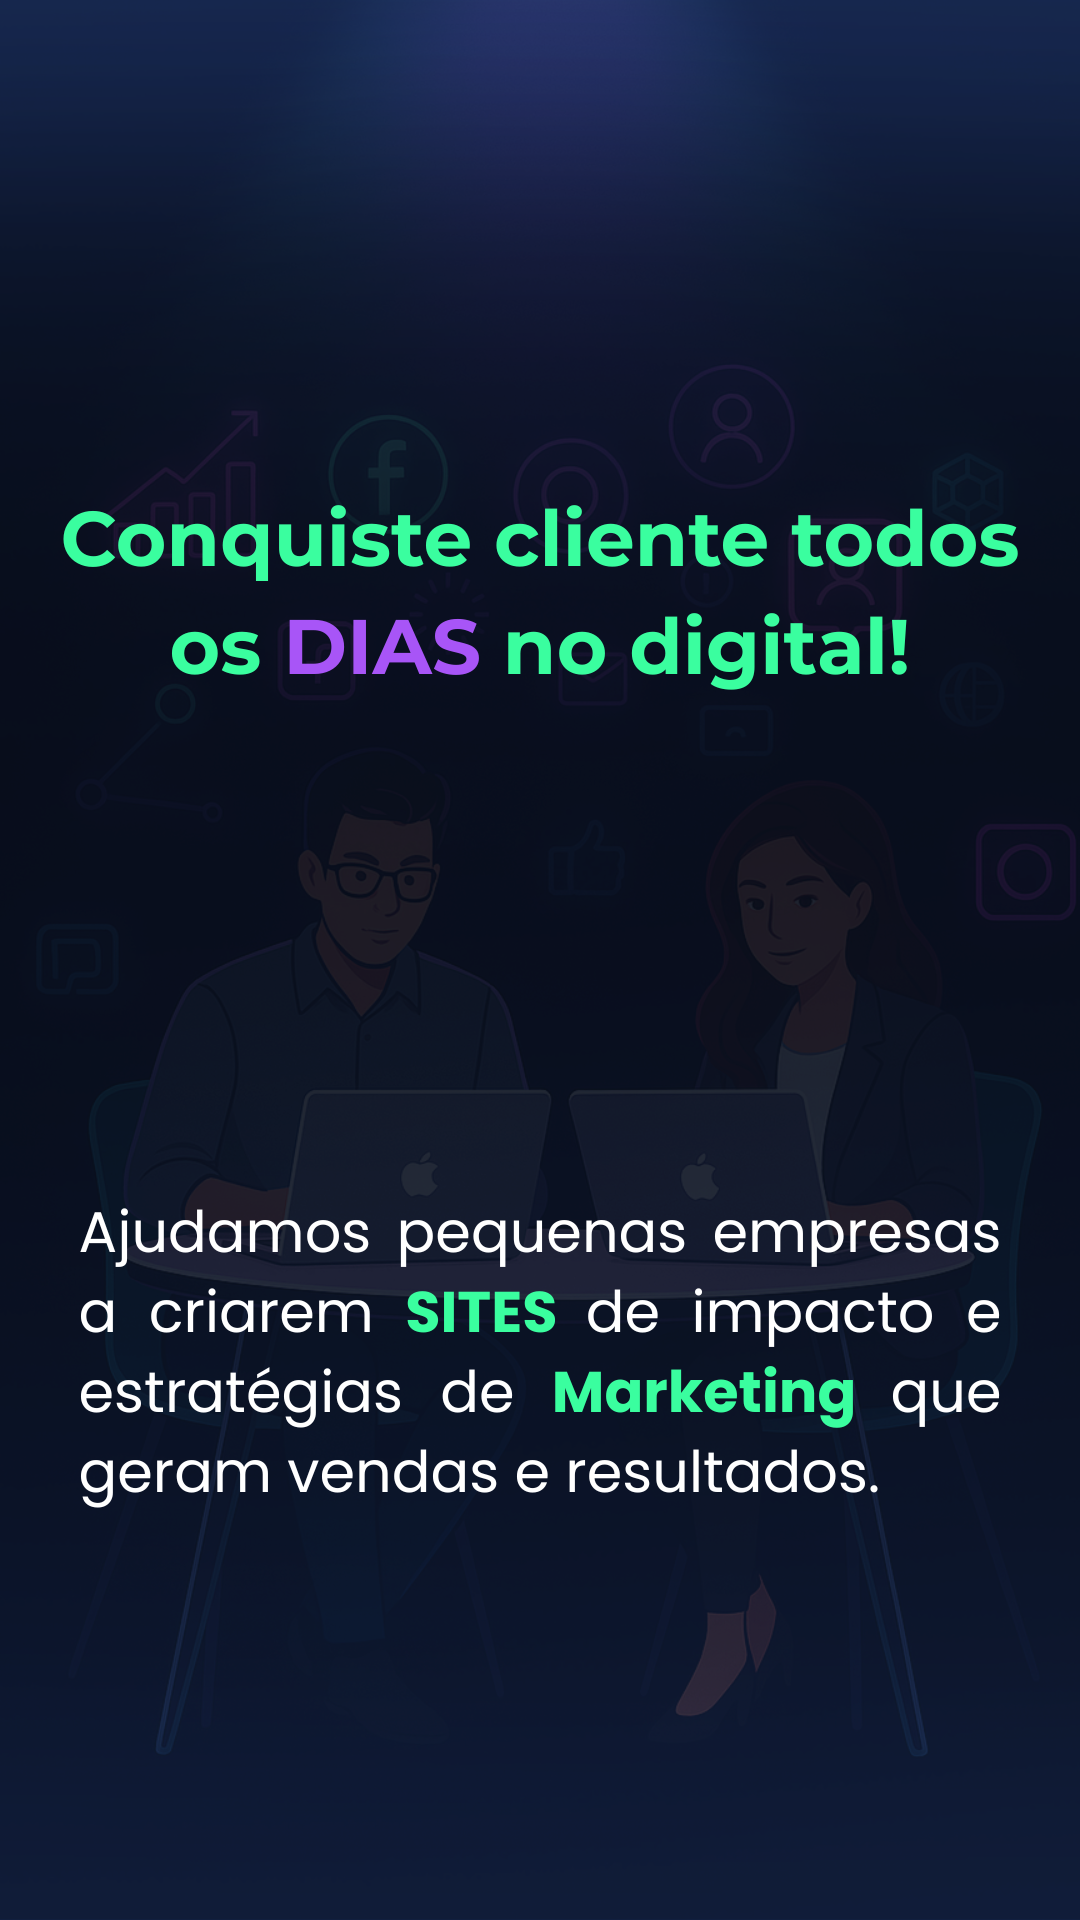
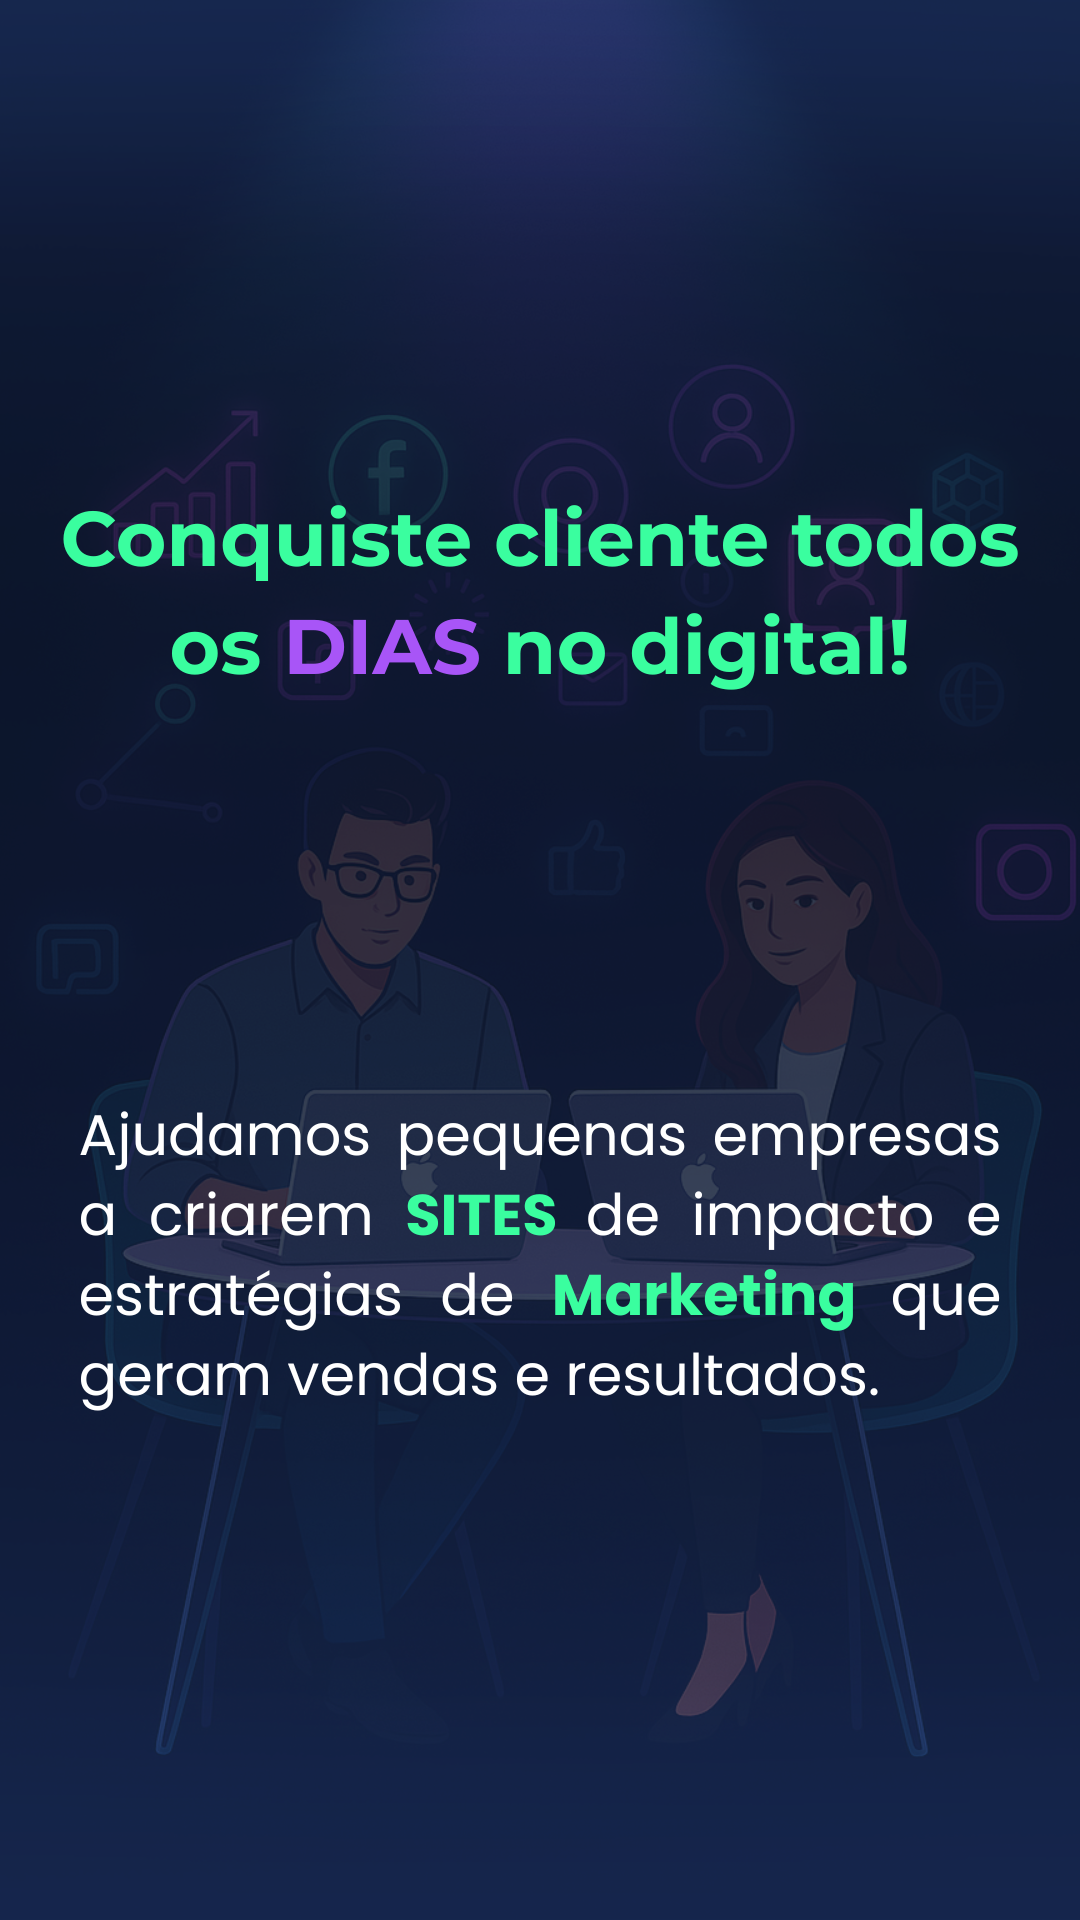
atualização

diff --git a/styles.css b/styles.css
@@ -524,6 +524,7 @@ footer {
     position: relative; 
     display: flex;
     flex-direction: column;
+    height: auto;
     align-items: center;
     background-image: url(./img/imagem11.png);
     background-size: cover;
@@ -531,7 +532,7 @@ footer {
     box-shadow: 0 5px 20px #A855F7;
     border-radius: 10px;
     margin: 50p 0 0 0x;
-    padding: 300px 0; 
+    padding: 320px 0; 
 
         .text-container {
         
